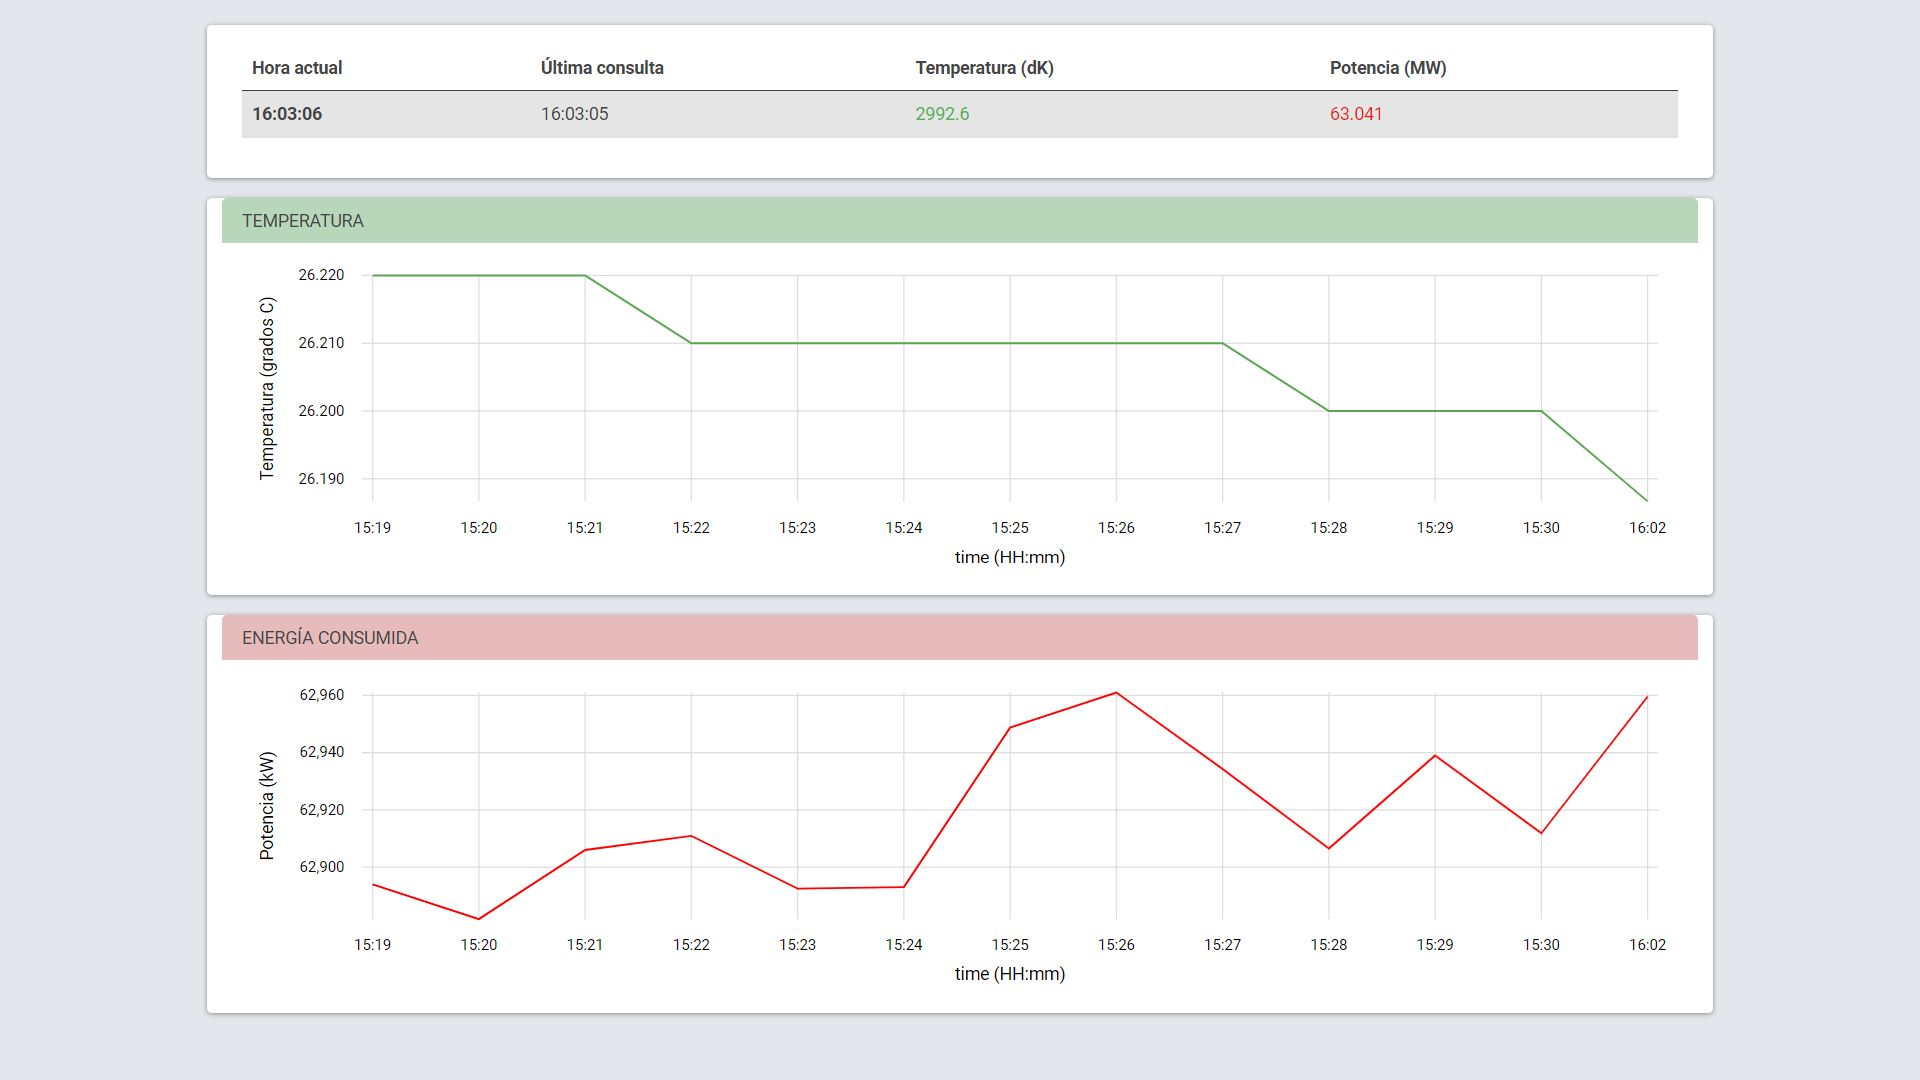
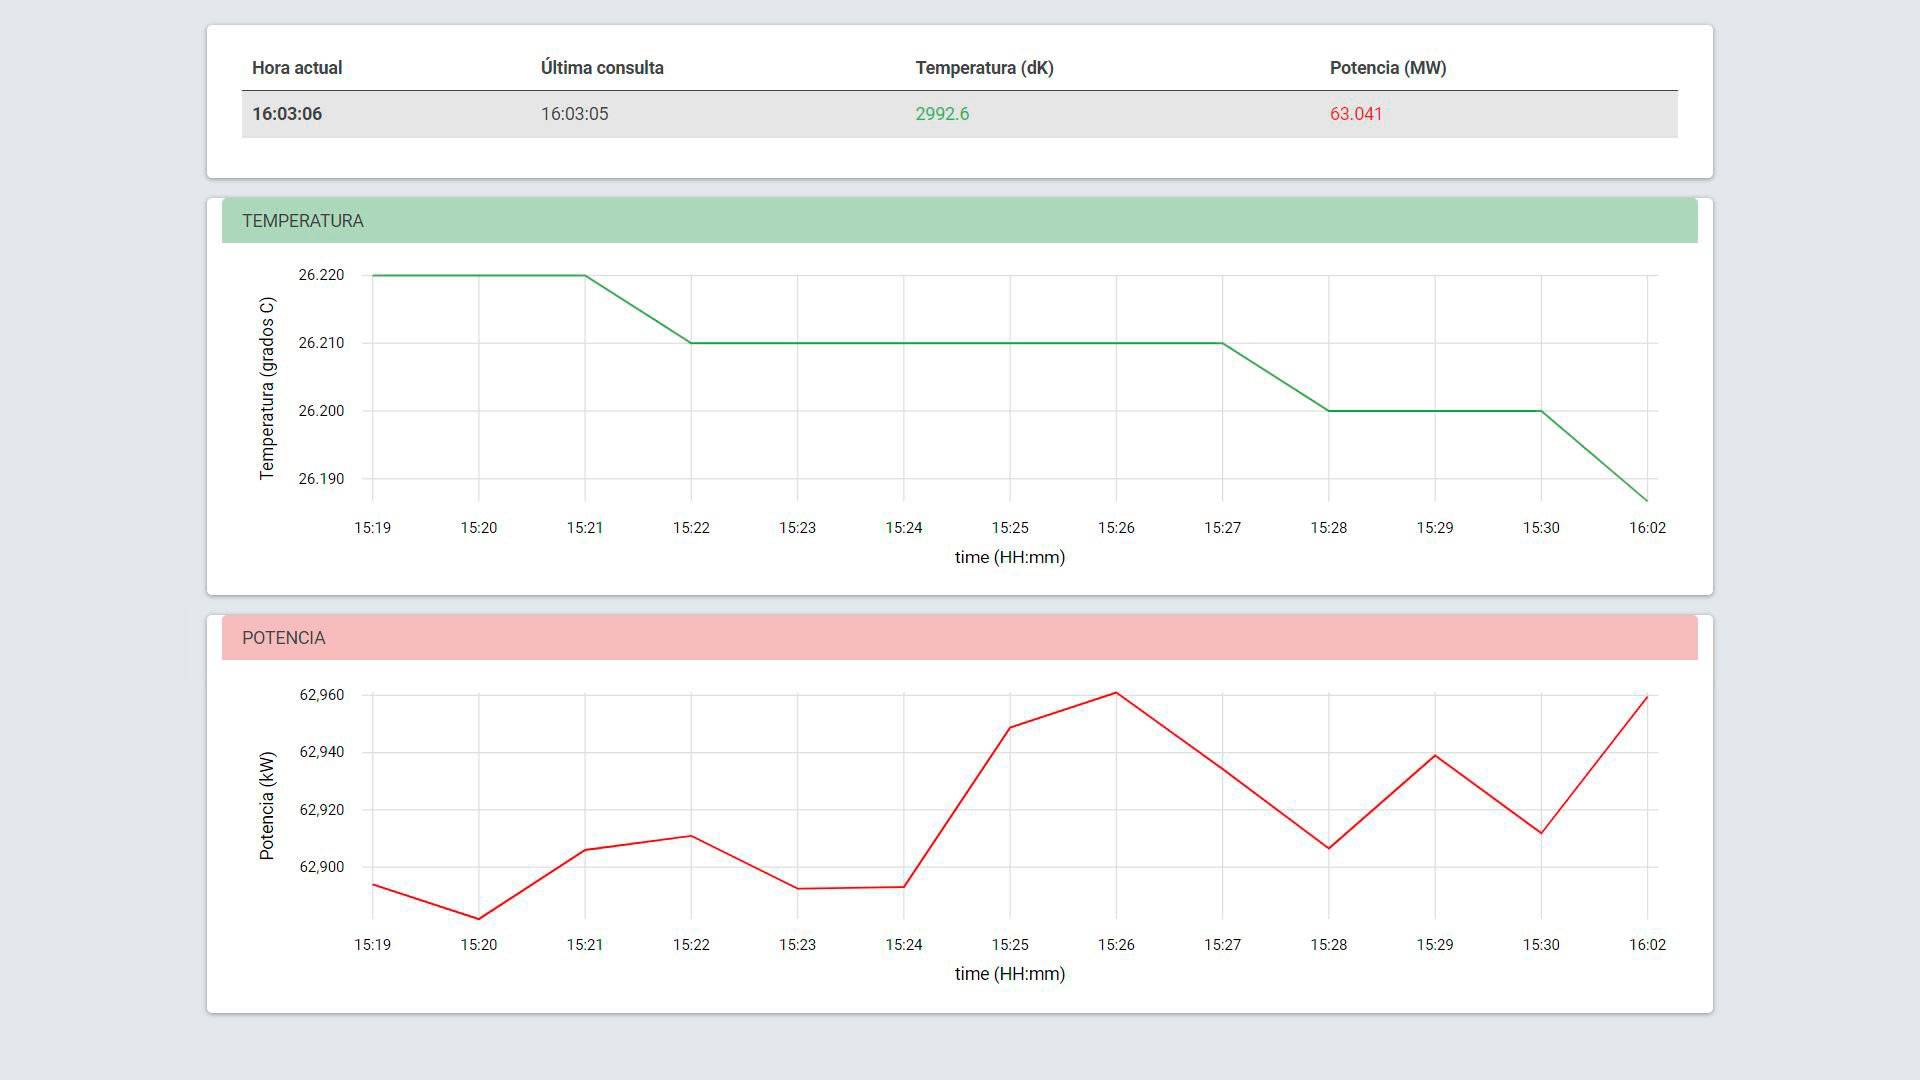
readme.jpg update

Changed region(s): [[0.125, 0.5806, 0.2188, 0.6111], [0.6875, 0.0917, 0.7188, 0.1222]]

diff --git a/angular/src/app/app.component.html b/angular/src/app/app.component.html
@@ -47,7 +47,7 @@
         <div class="row justify-content-center">
             <!-- Card -->
             <div class="card bg-secondary mb-3">
-                <div class="card-header" style="background: #da9696a4">ENERGÍA CONSUMIDA</div>
+                <div class="card-header" style="background: #da9696a4">POTENCIA</div>
                 <div class="card-body">
                     <!-- Mostrar mensaje de advertencia no datos en gráfica -->
                     <div *ngIf="mensajeTemperatura" class="alert alert-dismissible alert-warning mt-2">
